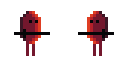
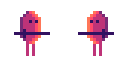
stage selection & weapon sprites

Changed region(s): [[0.5938, 0.1562, 0.9062, 0.875], [0.0938, 0.1562, 0.4062, 0.875]]

diff --git a/src/states/arena-selection.js b/src/states/arena-selection.js
@@ -1,24 +1,69 @@
+let ASTiles = null;
+let levelTiles = null;
+
+let def = {
+    unit: {
+        player: 0,
+        enemy: 1
+    },
+    level: 0,
+    player: {
+        upgradeLevel: 0
+    },
+    enemiesInLevels: [
+        [0],
+        [0, 1],
+        [0, 1, 2],
+        [1, 2],
+        [1, 2],
+        [2, 3],
+        [2, 3],
+        [3, 4],
+        [3, 4],
+        [3, 4, 5],
+        [4, 5],
+        [4, 5]
+    ],
+    enemyCounts: [4, 4, 5, 5, 5, 6, 6, 6, 6, 7, 7, 7],
+    enemySpec: [
+        {hp: 50, damage: 40, soul: 85},
+        {hp: 75, damage: 60, soul: 115},
+        {hp: 125, damage: 90, soul: 175},
+        {hp: 190, damage: 140, soul: 290},
+        {hp: 260, damage: 210, soul: 420},
+        {hp: 360, damage: 300, soul: 605}
+    ]
+}
+
 let ArenaSelection = {
     create: function() {
         
-        this.UI = new UI(Screen.Width, 100);
-        this.UI.bgFadeIn(function(){});
-        
-        this.UI.createArenaGraphics();
-        this.UI.soulsText = this.UI.createStageText(`S O U L S : ${Game.souls}`, Screen.Width / 2, 380);
-        this.UI.sacSoulsText = this.UI.createStageText(`S A C R I F I C E D  S O U L S : ${Game.sacrificedSouls}`, Screen.Width / 2, 405);
+        ui.bgFadeIn(function(){});
 
-        let label = game.add.text(Screen.Width / 2, 440, "Y O U R  S O U L  W I L L  R E C I V E  U P G R A D E S", { font: `14px Slabo`, fill: `#${Number(this.UI.rndColors.l).toString(16)}`});
-        label.x = label.x - label.width / 2;
-        let label2 = game.add.text(Screen.Width / 2, 460, "F O R  E V E R Y  3 0 0  S A C R I F I C E D  S O U L S", { font: `14px Slabo`, fill: `#${Number(this.UI.rndColors.l).toString(16)}`});
-        label2.x = label2.x - label2.width / 2;
+        if (ASTiles == null) {
+            let tiles = [];
 
-        this.UI.soulLevelText = this.UI.createStageText(`S O U L  L E V E L : ${Game.D}`, Screen.Width / 2, 490);
+            for (let i = 0; i < TotalROW; i++) {
+                tiles.push([]);
+                for (let j = 0; j < TotalCOL; j++) {
+                    tiles[i].push(new TileItem(j * CellSize, i * CellSize, `f${Math.floor(Math.random() * floorSpriteCount) + 1}`));
+                }
+            }
 
-        this.UI.stageHeadText = this.UI.createStageText(`S E L E C T  A R E N A`, Screen.Width / 2, 30);
-        this.UI.drawUpgradeMenuButton(Screen.Width / 2, 100);
+            let levels = [];
 
-        Game.arena_music.stop();
-        if (!Game.main_music.isPlaying) Game.main_music.restart("", 0, 0.5, true);
+            for (let i = 1; i < 7; i++) {
+                levels.push(new LevelTile(i * CellSize + CellSize, 3 * CellSize, `s${i}`, i - 1));
+            }
+
+            for (let i = 7; i < 13; i++) {
+                levels.push(new LevelTile((13 - i) * CellSize + CellSize, 4 * CellSize, `s${i}`, i - 1));
+            }
+
+            ASTiles = tiles;
+            levelTiles = levels;
+
+            levelTiles[0].setEnable();
+        }
     }
 }

diff --git a/src/states/main-state.js b/src/states/main-state.js
@@ -1,41 +1,6 @@
-let def = {
-    unit: {
-        player: 0,
-        enemy: 1
-    },
-    level: 0,
-    player: {
-        upgradeLevel: 0
-    },
-    enemiesInLevels: [
-        [1],
-        [1, 2],
-        [1, 2, 3],
-        [2, 3],
-        [2, 3],
-        [3, 4],
-        [3, 4],
-        [4, 5],
-        [4, 5],
-        [4, 5],
-        [4, 5, 6],
-        [4, 5, 6]
-    ],
-    enemyCounts: [4, 4, 5, 5, 5, 6, 6, 6, 6, 7, 7, 7],
-    enemySpec: [
-        {hp: 50, damage: 40, soul: 85},
-        {hp: 75, damage: 60, soul: 115},
-        {hp: 125, damage: 90, soul: 175},
-        {hp: 190, damage: 140, soul: 290},
-        {hp: 260, damage: 210, soul: 420},
-        {hp: 360, damage: 300, soul: 605}
-    ]
-}
-
 let roomCreator;
 let _gameManager;
 
-let ui;
 let soulLabel;
 let playerDamageLabel;
 let turnLabel;
@@ -43,7 +8,6 @@ let turnLabel;
 let MainState = {
     
     create: function() {
-        ui = new UI();
         game.stage.backgroundColor = "#F8F8F8";
 
         turnLabel = ui.createStageText(`Your Turn`, CellSize / 2, (TotalROW - 2) * CellSize, 36);
@@ -52,10 +16,10 @@ let MainState = {
         roomCreator.generate();
 
         _gameManager = new gameManager();
-        _gameManager.generateEnemies(10);
+        _gameManager.generateEnemies();
 
-        soulLabel = ui.createStageText(`Souls: ${_gameManager.player.soul}`, CellSize / 2, (TotalROW - 2) * CellSize + CellSize / 2 + 20, 24);
-        playerDamageLabel = ui.createStageText(`Your Damage: ${_gameManager.player.damage}`, CellSize / 2, (TotalROW - 2) * CellSize + CellSize + 15, 24);
+        soulLabel = ui.createStageText(`SOULS: ${_gameManager.player.soul}`, CellSize / 2, (TotalROW - 2) * CellSize + CellSize / 2 + 20, 24);
+        playerDamageLabel = ui.createStageText(`YOUR DAMAGE: ${_gameManager.player.damage}`, CellSize / 2, (TotalROW - 2) * CellSize + CellSize + 15, 24);
     },
 
     update: function() {

diff --git a/src/game-constants.js b/src/game-constants.js
@@ -5,10 +5,12 @@ const CellSize = 64;
 const TotalCOL = 10;
 const TotalROW = 10;
 
+const roadTileCount = 12;
 const outherTreeSpriteCount = 5;
 const floorSpriteCount = 5;
 const floorE_SpriteCount = 4;
 const blockSpriteCount = 3;
+const weaponSpriteCount = 6;
 
 const Screen = {
     Width: TotalCOL * CellSize,
@@ -18,7 +20,12 @@ const Screen = {
 const AssetsPath = {
     Preloads: [
         {type: "spritesheet", key: "player1", path: `${AssetsDir}/units/p1.png`, w: 64, h: 64, f: 2},
+        {type: "spritesheet", key: "enemy0", path: `${AssetsDir}/units/e0.png`, w: 64, h: 64, f: 2},
         {type: "spritesheet", key: "enemy1", path: `${AssetsDir}/units/e1.png`, w: 64, h: 64, f: 2},
+        {type: "spritesheet", key: "enemy2", path: `${AssetsDir}/units/e2.png`, w: 64, h: 64, f: 2},
+        {type: "spritesheet", key: "enemy3", path: `${AssetsDir}/units/e3.png`, w: 64, h: 64, f: 2},
+        {type: "spritesheet", key: "enemy4", path: `${AssetsDir}/units/e4.png`, w: 64, h: 64, f: 2},
+        {type: "spritesheet", key: "enemy5", path: `${AssetsDir}/units/e5.png`, w: 64, h: 64, f: 2},
         {type: "audio", key: "enemydestroy", path: `${AssetsDir}/enemydestroy.wav`},
         {type: "audio", key: "enemytake", path: `${AssetsDir}/enemytake.wav`},
         {type: "audio", key: "fire", path: `${AssetsDir}/fire.wav`}
@@ -54,6 +61,22 @@ for (let i = 1; i < blockSpriteCount + 1; i++) {
         type: "image", 
         key: `b${i}`,
         path: `${AssetsDir}/blocks/b${i}.png`
+    });
+}
+
+for (let i = 1; i < roadTileCount + 1; i++) {
+    AssetsPath.Preloads.push({
+        type: "image", 
+        key: `s${i}`,
+        path: `${AssetsDir}/levels/s${i}.png`
+    });
+}
+
+for (let i = 1; i < weaponSpriteCount + 1; i++) {
+    AssetsPath.Preloads.push({
+        type: "image", 
+        key: `w${i}`,
+        path: `${AssetsDir}/upgrades/w${i}.png`
     });
 }
 

diff --git a/src/utility/game-manager.js b/src/utility/game-manager.js
@@ -1,5 +1,4 @@
 function gameManager() {
-
     this.states = {
         player: 0,
         enemy: 1
@@ -17,12 +16,13 @@ function gameManager() {
     this.setStatePlayer();
 }
 
-gameManager.prototype.generateEnemies = function(enemyCount) {
+gameManager.prototype.generateEnemies = function() {
     this.enemies = [];
-    for (let i = 0; i < enemyCount; i++) {
+    for (let i = 0; i < def.enemyCounts[def.level]; i++) {
         roomCreator.reCalculateAvailablePositions();
         let randomPos = roomCreator.availablePositions[Math.floor(Math.random() * roomCreator.availablePositions.length)];
-        this.enemies.push(new Enemy(randomPos.r, randomPos.c));
+        let level = def.enemiesInLevels[def.level][Math.floor(Math.random() * def.enemiesInLevels[def.level].length)];
+        this.enemies.push(new Enemy(randomPos.r, randomPos.c, level));
     }
 }
 
@@ -49,7 +49,7 @@ gameManager.prototype.update = function() {
 gameManager.prototype.setStatePlayer = function() {
     this.player.isAvailable = true;
     this.currentState = this.states.player;
-    turnLabel.text = "Your Turn";
+    turnLabel.text = "YOUR TURN";
 }
 
 gameManager.prototype.setStateEnemy = function() {
@@ -57,8 +57,11 @@ gameManager.prototype.setStateEnemy = function() {
         this.enemyIndex = 0;
         this.enemies[this.enemyIndex].isAvailable = true;
         this.currentState = this.states.enemy;
-        turnLabel.text = "Enemy Turn";
+        turnLabel.text = "ENEMY TURN";
     } else {
-        turnLabel.text = "You Cleared The Stage!";
+        def.level++;
+        _gameManager.setStatePlayer();
+        _gameManager.generateEnemies();
+        turnLabel.text = "YOU CLEARED THE STAGE!";
     }
 }

diff --git a/src/objects/level-tile-item.js b/src/objects/level-tile-item.js
@@ -1,0 +1,44 @@
+let LevelTile = function (x, y, spriteName, level) {
+    Phaser.Sprite.call(this, game, x, y, spriteName, 1);
+
+    this.alpha = 0.6;
+    this.level = level;
+
+    game.add.existing(this);
+
+    this.events.onInputDown.add(function() {
+        def.level = this.level;
+        let ui = new UI;
+        ui.bgFadeOut(function(){game.state.start("MainState");})
+    }, this);
+
+    this.setDisable();
+}
+
+LevelTile.prototype = Object.create(Phaser.Sprite.prototype);
+LevelTile.prototype.constructor = LevelTile;
+
+LevelTile.prototype.update = function() {
+    if (this._e) {
+        if (this.input.pointerOver()) {
+            this.alpha = 1;
+        }
+        else {
+            this.alpha = 0.6;
+        }
+    }
+}
+
+LevelTile.prototype.setEnable = function() {
+    this.inputEnabled = true;
+    this.input.useHandCursor = true;
+    this.alpha = 0.6;
+
+    this._e = true;
+}
+
+LevelTile.prototype.setDisable = function() {
+    this.inputEnabled = false;
+    this.alpha = 0.3;
+    this._e = false;
+}

diff --git a/index.html b/index.html
@@ -4,7 +4,7 @@
         <meta charset="UTF-8">
         <meta name="viewport" content="width=device-width, initial-scale=1.0">
         <meta http-equiv="X-UA-Compatible" content="ie=edge">
-        <link href="https://fonts.googleapis.com/css?family=Indie+Flower" rel="stylesheet">
+        <link href="./assets/font/style.css" rel="stylesheet">
         <title>ld43</title>
         <style>
             body {
@@ -13,6 +13,9 @@
         </style>
     </head>
     <body>
+        <div class="fontLoader" style="font-family: I pixel u; position: absolute;
+        left: -1000px;
+        visibility: hidden;">-----LOAD-----</div>
         <div id="content"></div>
         <script src="lib/phaser.min.js"></script>
         <script src="build/game.js"></script>

diff --git a/src/objects/_enemy.js b/src/objects/_enemy.js
@@ -1,11 +1,11 @@
-let Enemy = function (row, col) {
-    MovingUnit.call(this, row, col, "enemy1", def.unit.enemy);
+let Enemy = function (row, col, level) {
+    MovingUnit.call(this, row, col, `enemy${level}`, def.unit.enemy);
 
     this.frame = 0;
-    this.dmg = 10;
-    this.maxhp = 40
-    this.hp = 40;
-    this.soul = 20;
+    this.dmg = def.enemySpec[level].damage;
+    this.maxhp = def.enemySpec[level].hp;
+    this.hp = def.enemySpec[level].hp;
+    this.soul = def.enemySpec[level].soul;
 
     this.hpbar = new Phaser.Rectangle(this.x + 5, this.y, CellSize - 10, 10);
 }

diff --git a/src/objects/_player.js b/src/objects/_player.js
@@ -67,7 +67,7 @@ Player.prototype.damageTaken = function(dmg) {
     game.camera.shake(0.02, 80);
     game.camera.flash(0xf77474, 80);
     this.soul -= dmg;
-    soulLabel.text = `Souls: ${this.soul}`;
+    soulLabel.text = `SOULS: ${this.soul}`;
     console.log("dmgtaken", this.soul);
 }
 
@@ -75,5 +75,5 @@ Player.prototype.soulTaken = function(soul) {
     console.log(soul);
     game.camera.flash(0x0000ff, 80);
     this.soul += soul;
-    soulLabel.text = `Souls: ${this.soul}`;
+    soulLabel.text = `SOULS: ${this.soul}`;
 }

diff --git a/src/states/preloads.js b/src/states/preloads.js
@@ -1,3 +1,4 @@
+let ui = new UI();
 let Preload = {
     preload : function() {
         for (let i in AssetsPath.Preloads) {
@@ -42,6 +43,6 @@ let Preload = {
         this.UI = new UI(Screen.Width, 100);
         this.UI.createStageText(`L O A D I N G`, Screen.Width / 2, Screen.Height / 2);
 
-        this.UI.bgFadeOut(function(){game.state.start("MainState");})
+        this.UI.bgFadeOut(function(){game.state.start("ArenaSelection");})
     }
 }

diff --git a/src/ui.js b/src/ui.js
@@ -37,6 +37,6 @@ UI.prototype.bgFadeOut = function(fn) {
 }
 
 UI.prototype.createStageText = function(text, x, y, size) {
-    let label = game.add.text(x, y, text, { font: `${size}px Indie Flower`, fill: `#252525`});
+    let label = game.add.text(x, y, text, { font: `${size}px I pixel u`, fill: `#252525`});
     return label;
 }

diff --git a/assets/font/style.css b/assets/font/style.css
@@ -1,0 +1,8 @@
+@font-face {
+    font-family: 'I pixel u';
+    src: url('I-pixel-u.woff2') format('woff2'),
+        url('I-pixel-u.woff') format('woff');
+    font-weight: normal;
+    font-style: normal;
+}
+
